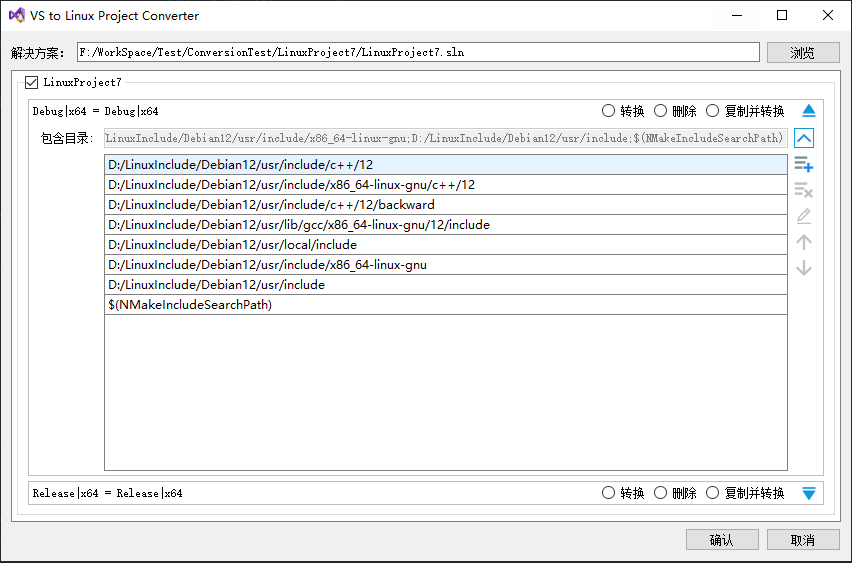
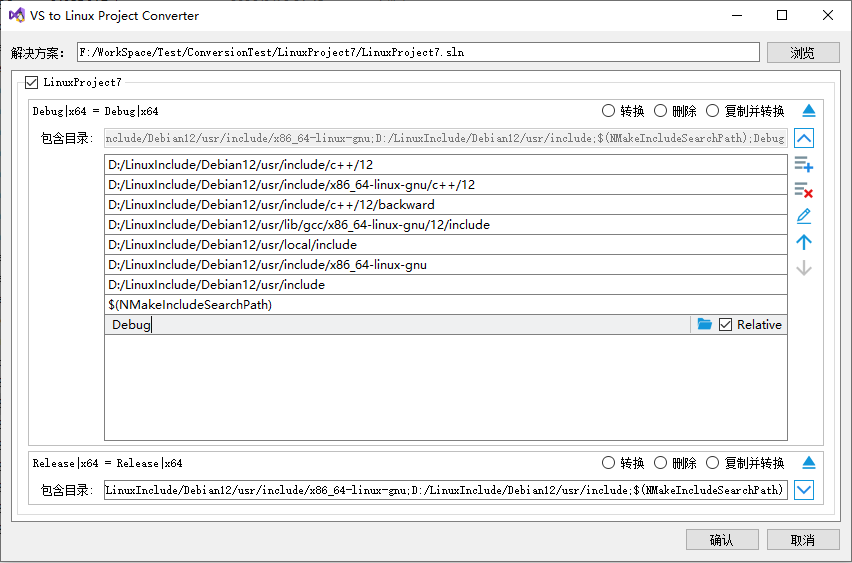
头文件目录类型改为Dir

diff --git a/VSConversionLinux/VSConversionLinux/src/SlnConfigWidget.cpp b/VSConversionLinux/VSConversionLinux/src/SlnConfigWidget.cpp
@@ -109,7 +109,7 @@ PlatformConfigWidget::PlatformConfigWidget(ProjectConfigPlatform *_projConfigPla
 	configureProjectVLay->setContentsMargins(5, 0, 5, 5);
 	configureProjectVLay->setSpacing(5);
 
-	includeDirListLineEditWidget = new ListLineViewEditWidget(trUtf8("包含目录"), ";", ListEditType_Path);
+	includeDirListLineEditWidget = new ListLineViewEditWidget(trUtf8("包含目录"), ";", ListEditType_Dir);
 	includeDirListLineEditWidget->setPwd(projectConfigPlatform->vsProject->projectDir);
 	configureProjectVLay->addWidget(includeDirListLineEditWidget);
 
